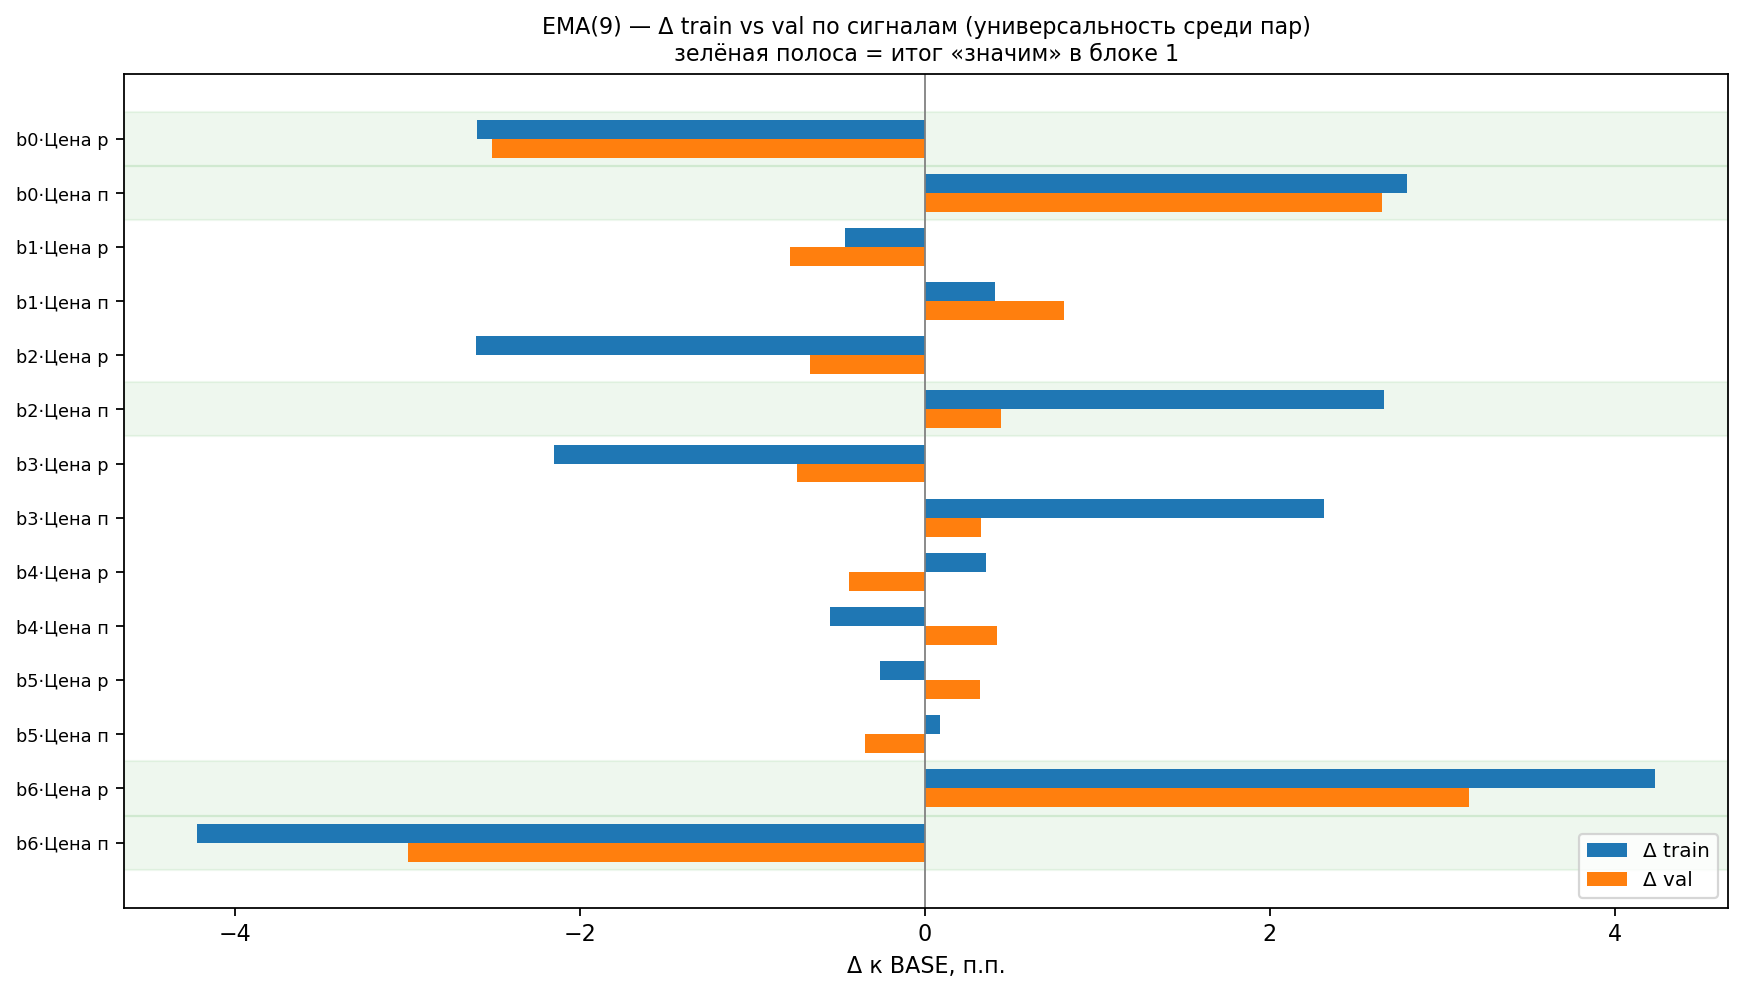
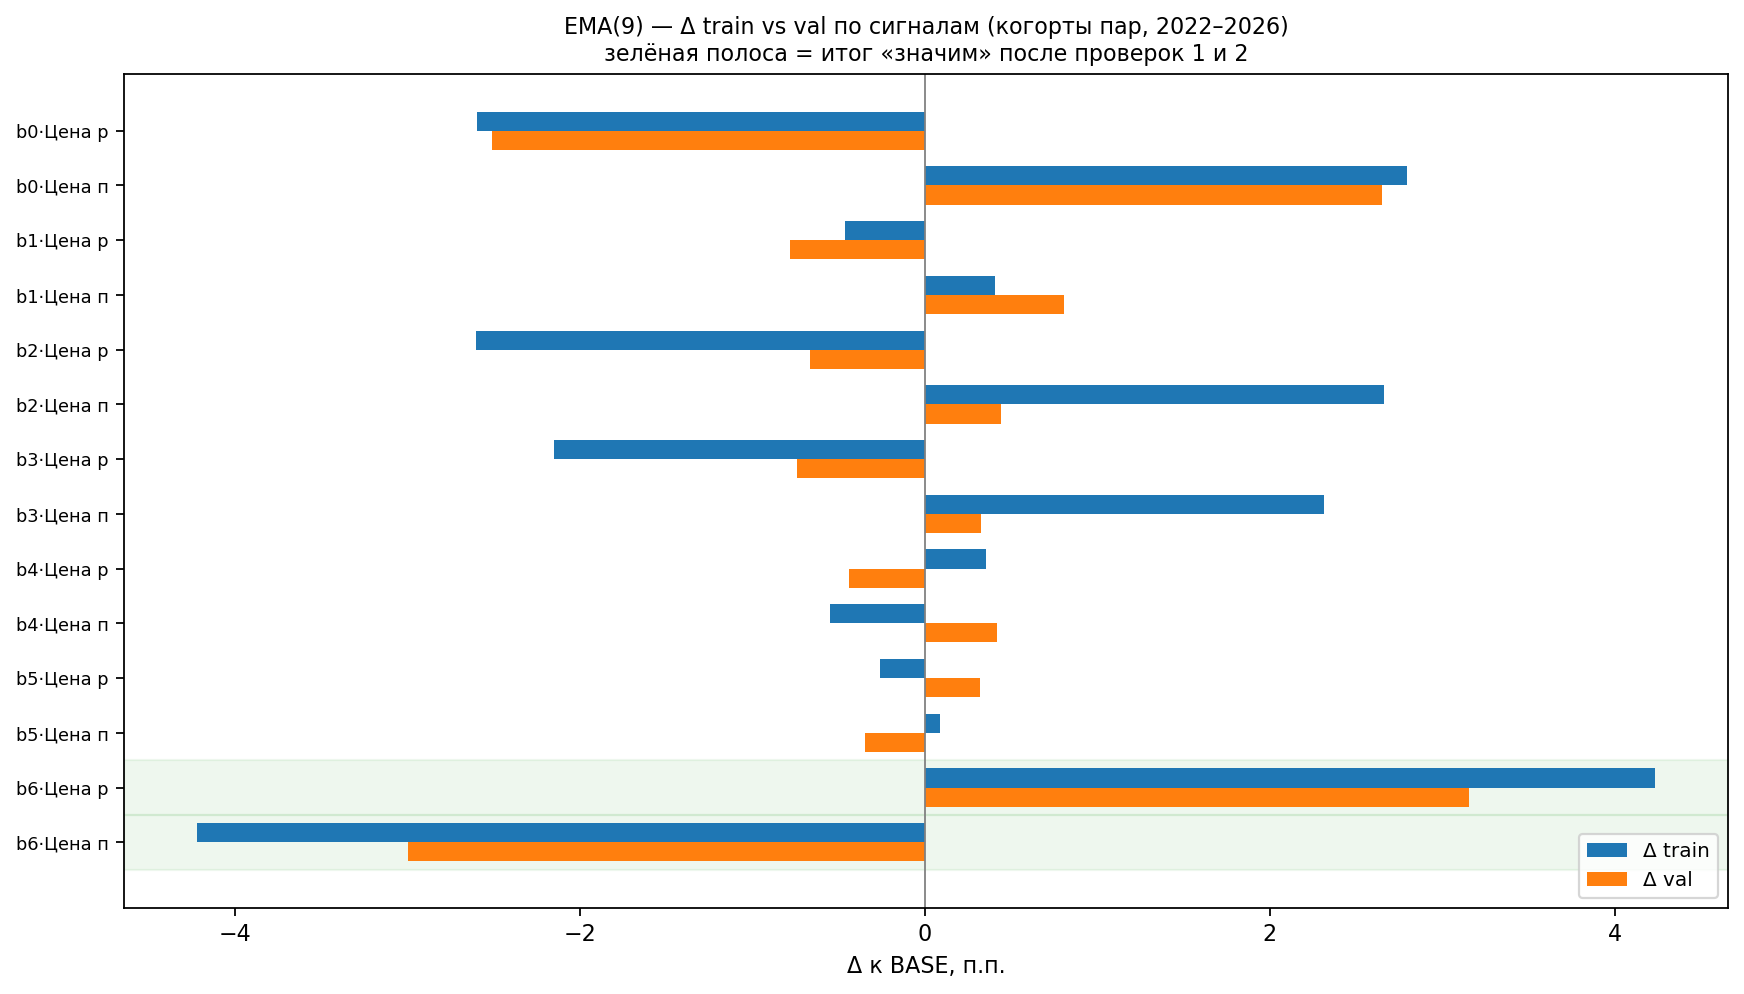
add new plots

diff --git a/utils/ema_spreads/summary_plots.py b/utils/ema_spreads/summary_plots.py
@@ -7,7 +7,10 @@ from pathlib import Path
 import matplotlib.pyplot as plt
 import numpy as np
 
-from crypto_research.utils.ema_spreads.constants import SELECTED_EMA_PERIOD
+from crypto_research.utils.ema_spreads.constants import (
+    SCREEN_MIN_POOLED_DELTA_PP,
+    SELECTED_EMA_PERIOD,
+)
 from crypto_research.utils.ema_spreads.summary import EmaSignalSummaryRow
 from crypto_research.utils.pipeline.logger import get_logger
 
@@ -15,25 +18,36 @@ log = get_logger("ema_summary_plots")
 
 PLOT_DPI = 160
 COLOR_SIGNIFICANT = "#2ca02c"
-COLOR_OTHER = "#4c72b0"
 
 
 def _short_label(row: EmaSignalSummaryRow) -> str:
     return f"b{row.key.bucket}·{row.key.column[:6]}"
 
 
-def save_signal_delta_chart(
-    pair_rows: list[EmaSignalSummaryRow],
+def _material_rows(
+    rows: list[EmaSignalSummaryRow],
+    *,
+    min_train_delta_pp: float,
+) -> list[EmaSignalSummaryRow]:
+    return [
+        r
+        for r in rows
+        if r.train_delta_pp == r.train_delta_pp
+        and abs(r.train_delta_pp) >= min_train_delta_pp
+    ]
+
+
+def save_check_signal_delta_chart(
+    rows: list[EmaSignalSummaryRow],
     path: Path,
     *,
     ema_period: int = SELECTED_EMA_PERIOD,
+    title: str,
+    subtitle: str,
+    min_train_delta_pp: float = SCREEN_MIN_POOLED_DELTA_PP,
 ) -> None:
     path.parent.mkdir(parents=True, exist_ok=True)
-    material = [
-        r for r in pair_rows
-        if r.train_delta_pp == r.train_delta_pp
-        and abs(r.train_delta_pp) >= 0.01
-    ]
+    material = _material_rows(rows, min_train_delta_pp=min_train_delta_pp)
     if not material:
         return
     labels = [_short_label(r) for r in material]
@@ -42,68 +56,22 @@ def save_signal_delta_chart(
         r.val_delta_pp if r.val_delta_pp == r.val_delta_pp else 0.0
         for r in material
     ]
-    colors = [
-        COLOR_SIGNIFICANT if r.status == "значим" else COLOR_OTHER
-        for r in material
-    ]
     y = np.arange(len(labels))
-    height = 0.35
-    fig, ax = plt.subplots(figsize=(11, max(4.5, len(labels) * 0.45)))
-    ax.barh(y - height / 2, train_vals, height=height, label="Δ train", color="#1f77b4")
-    ax.barh(y + height / 2, val_vals, height=height, label="Δ val", color="#ff7f0e")
-    for i, c in enumerate(colors):
-        if c == COLOR_SIGNIFICANT:
+    bar_height = 0.35
+    fig_h = max(2.25, len(labels) * 0.225)
+    fig, ax = plt.subplots(figsize=(11, fig_h))
+    ax.barh(y - bar_height / 2, train_vals, height=bar_height, label="Δ train", color="#1f77b4")
+    ax.barh(y + bar_height / 2, val_vals, height=bar_height, label="Δ val", color="#ff7f0e")
+    for i, row in enumerate(material):
+        if row.status == "значим":
             ax.axhspan(i - 0.5, i + 0.5, color=COLOR_SIGNIFICANT, alpha=0.08, zorder=0)
     ax.set_yticks(y, labels, fontsize=8)
     ax.invert_yaxis()
     ax.axvline(0.0, color="gray", linewidth=0.8)
     ax.set_xlabel("Δ к BASE, п.п.")
-    ax.set_title(
-        f"EMA({ema_period}) — Δ train vs val по сигналам (универсальность среди пар)\n"
-        "зелёная полоса = итог «значим» в блоке 1",
-        fontsize=10,
-    )
+    ax.set_title(f"{title}\n{subtitle}", fontsize=10)
     ax.legend(loc="lower right", fontsize=9)
     fig.tight_layout()
     fig.savefig(path, dpi=PLOT_DPI, bbox_inches="tight")
     plt.close(fig)
     log.info("График Δ сигналов: %s", path)
-
-
-def save_confirmation_chart(
-    pair_rows: list[EmaSignalSummaryRow],
-    temporal_rows: list[EmaSignalSummaryRow],
-    path: Path,
-    *,
-    ema_period: int = SELECTED_EMA_PERIOD,
-) -> None:
-    path.parent.mkdir(parents=True, exist_ok=True)
-    labels = [_short_label(r) for r in pair_rows]
-    pair_pct = [
-        (r.val_agree or 0) / r.val_total * 100 if r.val_total else 0.0
-        for r in pair_rows
-    ]
-    temporal_pct = [
-        (r.val_agree or 0) / r.val_total * 100 if r.val_total else 0.0
-        for r in temporal_rows
-    ]
-    y = np.arange(len(labels))
-    height = 0.35
-    fig, ax = plt.subplots(figsize=(11, max(5.0, len(labels) * 0.45)))
-    ax.barh(y - height / 2, pair_pct, height=height, label="Пары train/val", color="#1f77b4")
-    ax.barh(y + height / 2, temporal_pct, height=height, label="Время train/val", color="#ff7f0e")
-    ax.axvline(60.0, color=COLOR_SIGNIFICANT, linestyle="--", linewidth=1.2, label="порог 60%")
-    ax.set_yticks(y, labels, fontsize=8)
-    ax.invert_yaxis()
-    ax.set_xlim(0, 105)
-    ax.set_xlabel("Подтверждение на val, %")
-    ax.set_title(
-        f"EMA({ema_period}) — доля подтверждения сигналов на val\n"
-        "блок 1: когорты пар · блок 2: те же пары, другой период",
-        fontsize=10,
-    )
-    ax.legend(loc="lower right", fontsize=9)
-    fig.tight_layout()
-    fig.savefig(path, dpi=PLOT_DPI, bbox_inches="tight")
-    plt.close(fig)
-    log.info("График подтверждения сигналов: %s", path)

diff --git a/utils/pipeline/ema_train_val_summary.py b/utils/pipeline/ema_train_val_summary.py
@@ -15,10 +15,7 @@ from crypto_research.utils.ema_spreads.summary import (
     format_signal_summary_table,
     status_by_signal_key,
 )
-from crypto_research.utils.ema_spreads.summary_plots import (
-    save_confirmation_chart,
-    save_signal_delta_chart,
-)
+from crypto_research.utils.ema_spreads.summary_plots import save_check_signal_delta_chart
 from crypto_research.utils.pipeline.logger import get_logger
 from crypto_research.utils.pipeline.pair_means import compute_pair_means
 from crypto_research.utils.pipeline.paths import ema_summary_log_path, ema_summary_plot_path
@@ -173,10 +170,22 @@ def run_summary_report(
         ema_period=ema_period,
     )
 
-    plot_delta = ema_summary_plot_path(ema_period, "signal_delta")
-    plot_confirm = ema_summary_plot_path(ema_period, "confirmation")
-    save_signal_delta_chart(pair_rows, plot_delta, ema_period=ema_period)
-    save_confirmation_chart(pair_rows, temporal_rows, plot_confirm, ema_period=ema_period)
+    plot_check1 = ema_summary_plot_path(ema_period, "check_pair_universality_delta")
+    plot_check2 = ema_summary_plot_path(ema_period, "check_temporal_stability_delta")
+    save_check_signal_delta_chart(
+        pair_rows,
+        plot_check1,
+        ema_period=ema_period,
+        title=f"EMA({ema_period}) — проверка 1: универсальность среди пар",
+        subtitle="зелёная полоса = статус «значим» (24 train / 25 val, 2022–2026)",
+    )
+    save_check_signal_delta_chart(
+        temporal_rows,
+        plot_check2,
+        ema_period=ema_period,
+        title=f"EMA({ema_period}) — проверка 2: устойчивость во времени",
+        subtitle="зелёная полоса = статус «значим» (49 пар, train 2022–2024-04 / val 2024-04–2026)",
+    )
 
     path = ema_summary_log_path(ema_period)
 
@@ -184,8 +193,8 @@ def run_summary_report(
     lines.extend([
         "",
         "=== Графики ===",
-        f"Δ train vs val: {plot_delta}",
-        f"Подтверждение на val: {plot_confirm}",
+        f"Проверка 1 — Δ train vs val: {plot_check1}",
+        f"Проверка 2 — Δ train vs val: {plot_check2}",
         "",
     ])
     save_summary_report("\n".join(lines), path)
